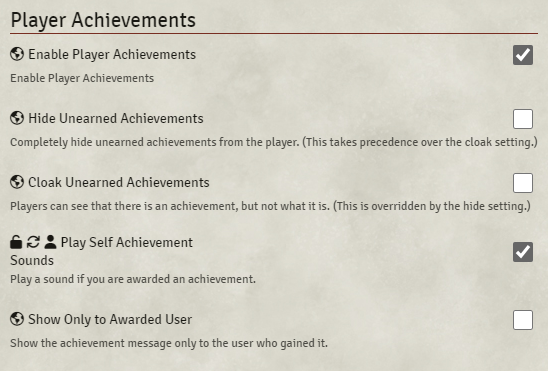
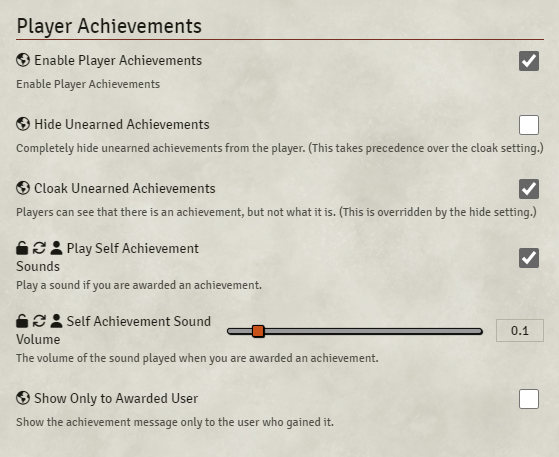
Sound volume is now an option

diff --git a/src/module/app/settings.js b/src/module/app/settings.js
@@ -68,6 +68,20 @@ export const registerSettings = () => {
     "type": Boolean,
   });
 
+  game.settings.register("fvtt-player-achievements", "selfSoundVolume", {
+    "name": "fvtt-player-achievements.settings.self-sound-volume.name",
+    "hint": "fvtt-player-achievements.settings.self-sound-volume.hint",
+    "scope": "local",
+    "config": true,
+    "default": 0.1,
+    "type": Number,
+    "range": {
+      "min": 0,
+      "max": 1,
+      "step": 0.1,
+    },
+  });
+
   game.settings.register("fvtt-player-achievements", "showOnlyToAwardedUser", {
     "name": "fvtt-player-achievements.settings.show-only-to-awarded-user.name",
     "hint": "fvtt-player-achievements.settings.show-only-to-awarded-user.hint",

diff --git a/src/module/fvtt-player-achievements.js b/src/module/fvtt-player-achievements.js
@@ -132,7 +132,7 @@ async function awardAchievementSelf({ achievement, playerId }) {
 
   if (game.user.character?.uuid === playerId && playAwardSound) {
     const audio = new Audio(achievement.sound ?? "/modules/fvtt-player-achievements/sounds/notification.ogg");
-    audio.volume = 0.1;
+    audio.volume = game.settings.get("fvtt-player-achievements", "selfSoundVolume");
     audio.play();
   }
 }

diff --git a/README.md b/README.md
@@ -6,6 +6,7 @@ This module provides GMs with a way to award players with achievements.
   ### GMs
   - Create your own achievements.
   - Assign/Unassign achievements to/from players.
+  - Customize sound played per achievement.
   - Can choose to cloak all unearned achievements details from players.
   - Can choose to hide all unearned achievements from players.
   - Can show achievement earn message to all players or only receiving player.
@@ -13,6 +14,7 @@ This module provides GMs with a way to award players with achievements.
   - Can restore achievement data from clipboard JSON text.
  ### Players
   - Optionally play a sound when an achievement is earned.
+  - Control the volume of achievement sounds if they play.
  ### All
   - Sort Achievement View by achievement name (ascending or descending).
   - Sort Achievement View by owned player.
@@ -57,3 +59,8 @@ This module provides GMs with a way to award players with achievements.
 
 ### Images
   default.webp - [https://game-icons.net/1x1/skoll/achievement.html](https://game-icons.net/1x1/skoll/achievement.html)
+
+
+### Localization
+
+  Spanish - @maeonian
